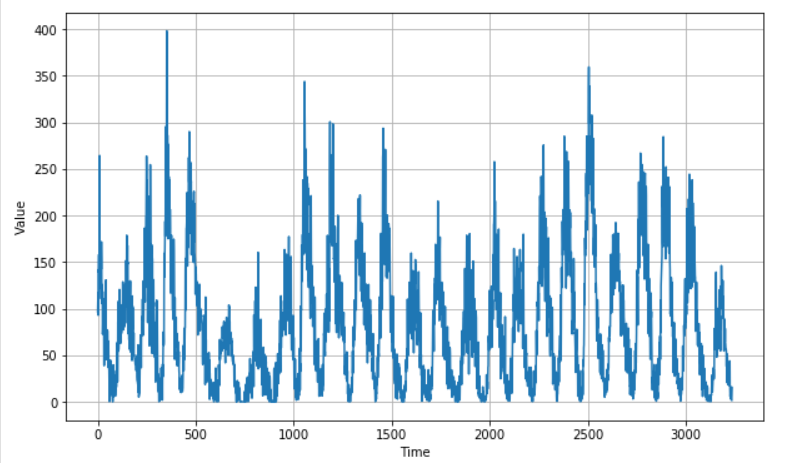
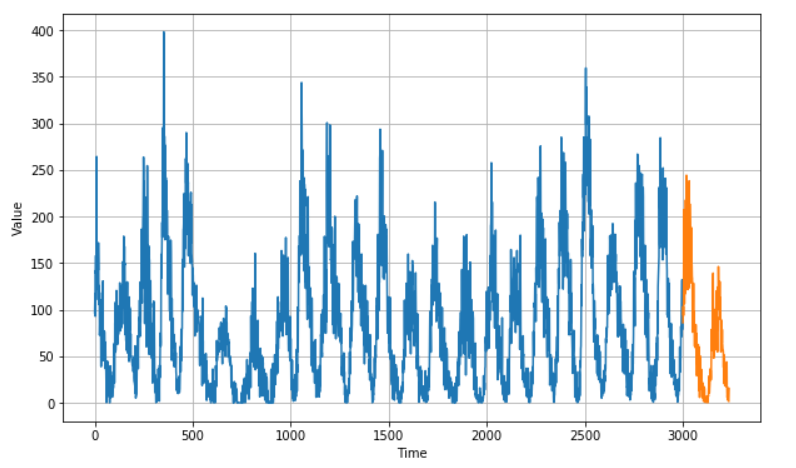
uni - single step

Changed region(s): [[0.0, 0.0, 0.9648, 0.9978]]

diff --git a/session-6/README.md b/session-6/README.md
@@ -17,7 +17,7 @@
 
 [7. Design our Tensorflow model](#7-design-our-tensorflow-model)
 
-[8. Putting it all together](#8-putting-it-all-together)
+[8. Univariate single step forecasting ](#8-univariate-single-step-forecasting)
 
 [9. Conclusion](#9-conclusion)
 
@@ -238,106 +238,123 @@ model.add(Dense(1))
 this code very similar to the models we created in the previous sessions, the only new thing we introduced here is the use of the layer LSTM which is pretty straightforward, just provide how many units are in the LSTM and if you will connect it to another Layer you need to set return_sequence=True
  
 
-## 8. Putting it all together  
+## 8. Univariate single step forecasting  
+
+In Single step forecasting, we are forecasting only one point in the future, we can chain the prediction to predict more but there is a better way to do that and we will cover it later
 
 **Read the data:**
-we start by reading the CSV file data as it is, hen extract the columns we need like this:
+
+We start by reading the CSV file data as it is:
  
 ~~~~{.python}
-with open('data/Sunspots.csv') as csvfile:
-    reader = csv.reader(csvfile, delimiter=',')
-    next(reader)
-    for row in reader:
-        sunspots.append(float(row[2]))
-        time_step.append(int(row[0]))
-
-series = np.array(sunspots)
-time = np.array(time_step)
+def loadData(pathToFile,sampleCount=None, timeIndex = 0 , dataIndex=1):
+    time = []
+    data = []
+    plt.figure(figsize=(10, 6))
+    with open(pathToFile) as csvfile:
+        reader = csv.reader(csvfile, delimiter=',')
+        next(reader)
+        for row in reader:
+            data.append(float(row[dataIndex]))
+            time.append(int(row[timeIndex]))
+    
+    series = np.array(data)
+    time = np.array(time)
+    if sampleCount != None :
+        train, valid = split(sampleCount, series)
+        ttrain, tvalid = split(sampleCount, time)
+        showSeries(ttrain, train, show=False)
+        showSeries(tvalid, valid)
+        return ttrain, train , tvalid, valid
+    else :
+        showSeries(time, series)
+        return time,series
 ~~~~
 
-if we plot both time and series we will get this figure
+This utility function, reads the csv file, then create both the time and series columns based on the passed index, then will split the data into training and test using the split utility function 
+
+~~~~{.python}
+def split(sampleCount, series):
+    X_train = series[:sampleCount]
+    X_valid = series[sampleCount:]
+    return X_train, X_valid
+~~~~
+
+Lastly, it draws the output using the utility function showSerier, note: ignore the extra parameter "show", which i use only in the none notebook version of the code
+
+~~~~{.python}
+def showSeries(time, series, show=True):
+    plt.plot(time, series)
+    plt.xlabel("Time")
+    plt.ylabel("Value")
+    plt.grid(True)
+~~~~
+
+the output should look like this 
 
 <p align="center"> 
-<img src="images/data.png" height="300">
+<img src="images/data.png" height="350">
 </p>
 
 
-To check how many data points are in this CSV, we can just print the shape of the series array 
+As we discussed before we need to create sequences to train our model, the following method will create the sequences using the window function we discussed in the data preparation section 
 
 ~~~~{.python}
-print(series.shape)
+def sequenceData(train,window_size, output=True, shuffle= True) :
+    if output : window_size = window_size + 1
+    dataset = tf.data.Dataset.from_tensor_slices(train)
+    dataset = dataset.window(window_size, shift=1, drop_remainder=True)
+    dataset = dataset.flat_map(lambda w: w.batch(window_size + 1))
+    if shuffle :
+        dataset = dataset.shuffle(1000)
+    
+    X = []
+    y = []
+    if output :
+        dataset = dataset.map(lambda w: (w[:-1], w[-1:]))
+        for a,b in dataset:
+            X.append(a.numpy())
+            y.append(b.numpy())
+    else :
+        for f in dataset :
+            X .append(f.numpy())
+    return np.asarray(X), np.asarray(y)
 ~~~~
 
-The output should be 
+to load the data and create the sequenced training set here is the code
 
 ~~~~{.python}
-(3235,)
-~~~~
-
-The reason we are doing this, is to decide how many rows we will use to train the modle and how many we will keep for validation 
-So we quite few data points here, so we are not going to do 80/20 split rather we will take 3000  data points for training and keep the last 235 data points for testing 
-
-Lets do the splitting
-
-~~~~{.python}
-SAMPLES_COUNT = 3000
-X_train = series[:SAMPLES_COUNT]
-X_valid = series[SAMPLES_COUNT:]
+time_train, train, time_valid, valid = loadData("/tmp/sunspots.csv",3000, 0, 2)
+X_train, y_train = sequenceData(train,60)
 print(X_train.shape)
-print(X_valid.shape)
+print(y_train.shape)
 ~~~~
 
-I defined the samples count as a variable, in case you want to play with it to see its impact on the model. I alos print our the shape of each array to confirm our split. You should get this output
+the result should be
 
 ~~~~{.python}
-(3000,)
-(235,)
+(2940, 60)
+(2940, 1)
 ~~~~
 
-But as we discussed before, the array is just a vector of numbers, and we want to train using sequences. So we will use the tensorflow dataset and its window function as explained [here](#6-prepare-data-for-training-tensorflow-model) 
-
+now it is time to create our model 
 
 ~~~~{.python}
-from tensorflow import expand_dims
-import tensorflow
-windowSize = 60
-batchSize = 256
-print(X_train.shape)
-#adjust the shape from (3000,) to (3000,1)
-X_train = expand_dims(X_train, axis=-1)
-print(X_train.shape)
-#convert to tensorflow dataset
-dataSet = tensorflow.data.Dataset.from_tensor_slices(X_train)
-#convert from vector to sequence, remember when we want to have a window of 2 in we used 3 since the last item will be the output
-dataSet = dataSet.window(windowSize + 1, shift=1, drop_remainder=True)
-dataSet = dataSet.flat_map(lambda w: w.batch(windowSize + 1))
-#it is important to shuffle the training data set
-dataSet = dataSet.shuffle(1000)
-#split X and y for [1,2,...,N] will be [1,2,,,,N-1][N]
-dataSet = dataSet.map(lambda w: (w[:-1], w[-1:]))
-dataSet = dataSet.batch(batchSize).prefetch(1)
+def create_Conv_Lstm_model() :
+	model = Sequential()
+	model.add(TimeDistributed(Conv1D(FILTERS_COUNT, KERNER_SIZE, activation='relu',
+	                                 input_shape=(None,window_size,1))))
+	model.add(TimeDistributed(Conv1D(FILTERS_COUNT, KERNER_SIZE, activation='relu')))
+	model.add(TimeDistributed(MaxPooling1D()))
+	model.add(TimeDistributed(Flatten()))
+	model.add(LSTM(NODES, activation='relu'))
+	model.add(Dense(NODES, activation='relu'))
+	model.add(Dense(1))
+	model.compile(loss='mse', optimizer='adam')
+	return model
 ~~~~
 
-Now we have a data set, with both X and y where X contains sequences of 60  items  and Y is one item for the predicted output after this sequences. It is also divided into patches of 256 sequence each and shuffled so we are ready to build and start the training of our model 
+our training data shape is (2940,60) but conv need a 3d array, which means we will need to expand out training array dimenstions by 1
 
-~~~~{.python}
-from tensorflow.keras.layers import LSTM,Conv1D,Dense,Lambda
-from tensorflow.keras.utils import plot_model
-from tensorflow.keras.models import Sequential
-from tensorflow.keras.optimizers import SGD
-from tensorflow.keras.losses import Huber
-model = Sequential()
-model.add(Conv1D(filters=32, kernel_size=5, strides=1, padding="causal",
-                 activation="relu", input_shape=[None,1]))
-model.add(LSTM(64, return_sequences=True))
-model.add(LSTM(64, return_sequences=True))
-model.add(Dense(30, activation='relu'))
-model.add(Dense(10, activation='relu'))
-model.add(Dense(1))
-model.add(Lambda(lambda x: x*400))
-model.compile(loss=Huber(),optimizer= SGD(lr=1e-8, momentum=0.9),metrics=["mae"])
-model.summary()
-history = model.fit(dataSet, epochs=100)
-~~~~
 
 ## 9. Conclusion
